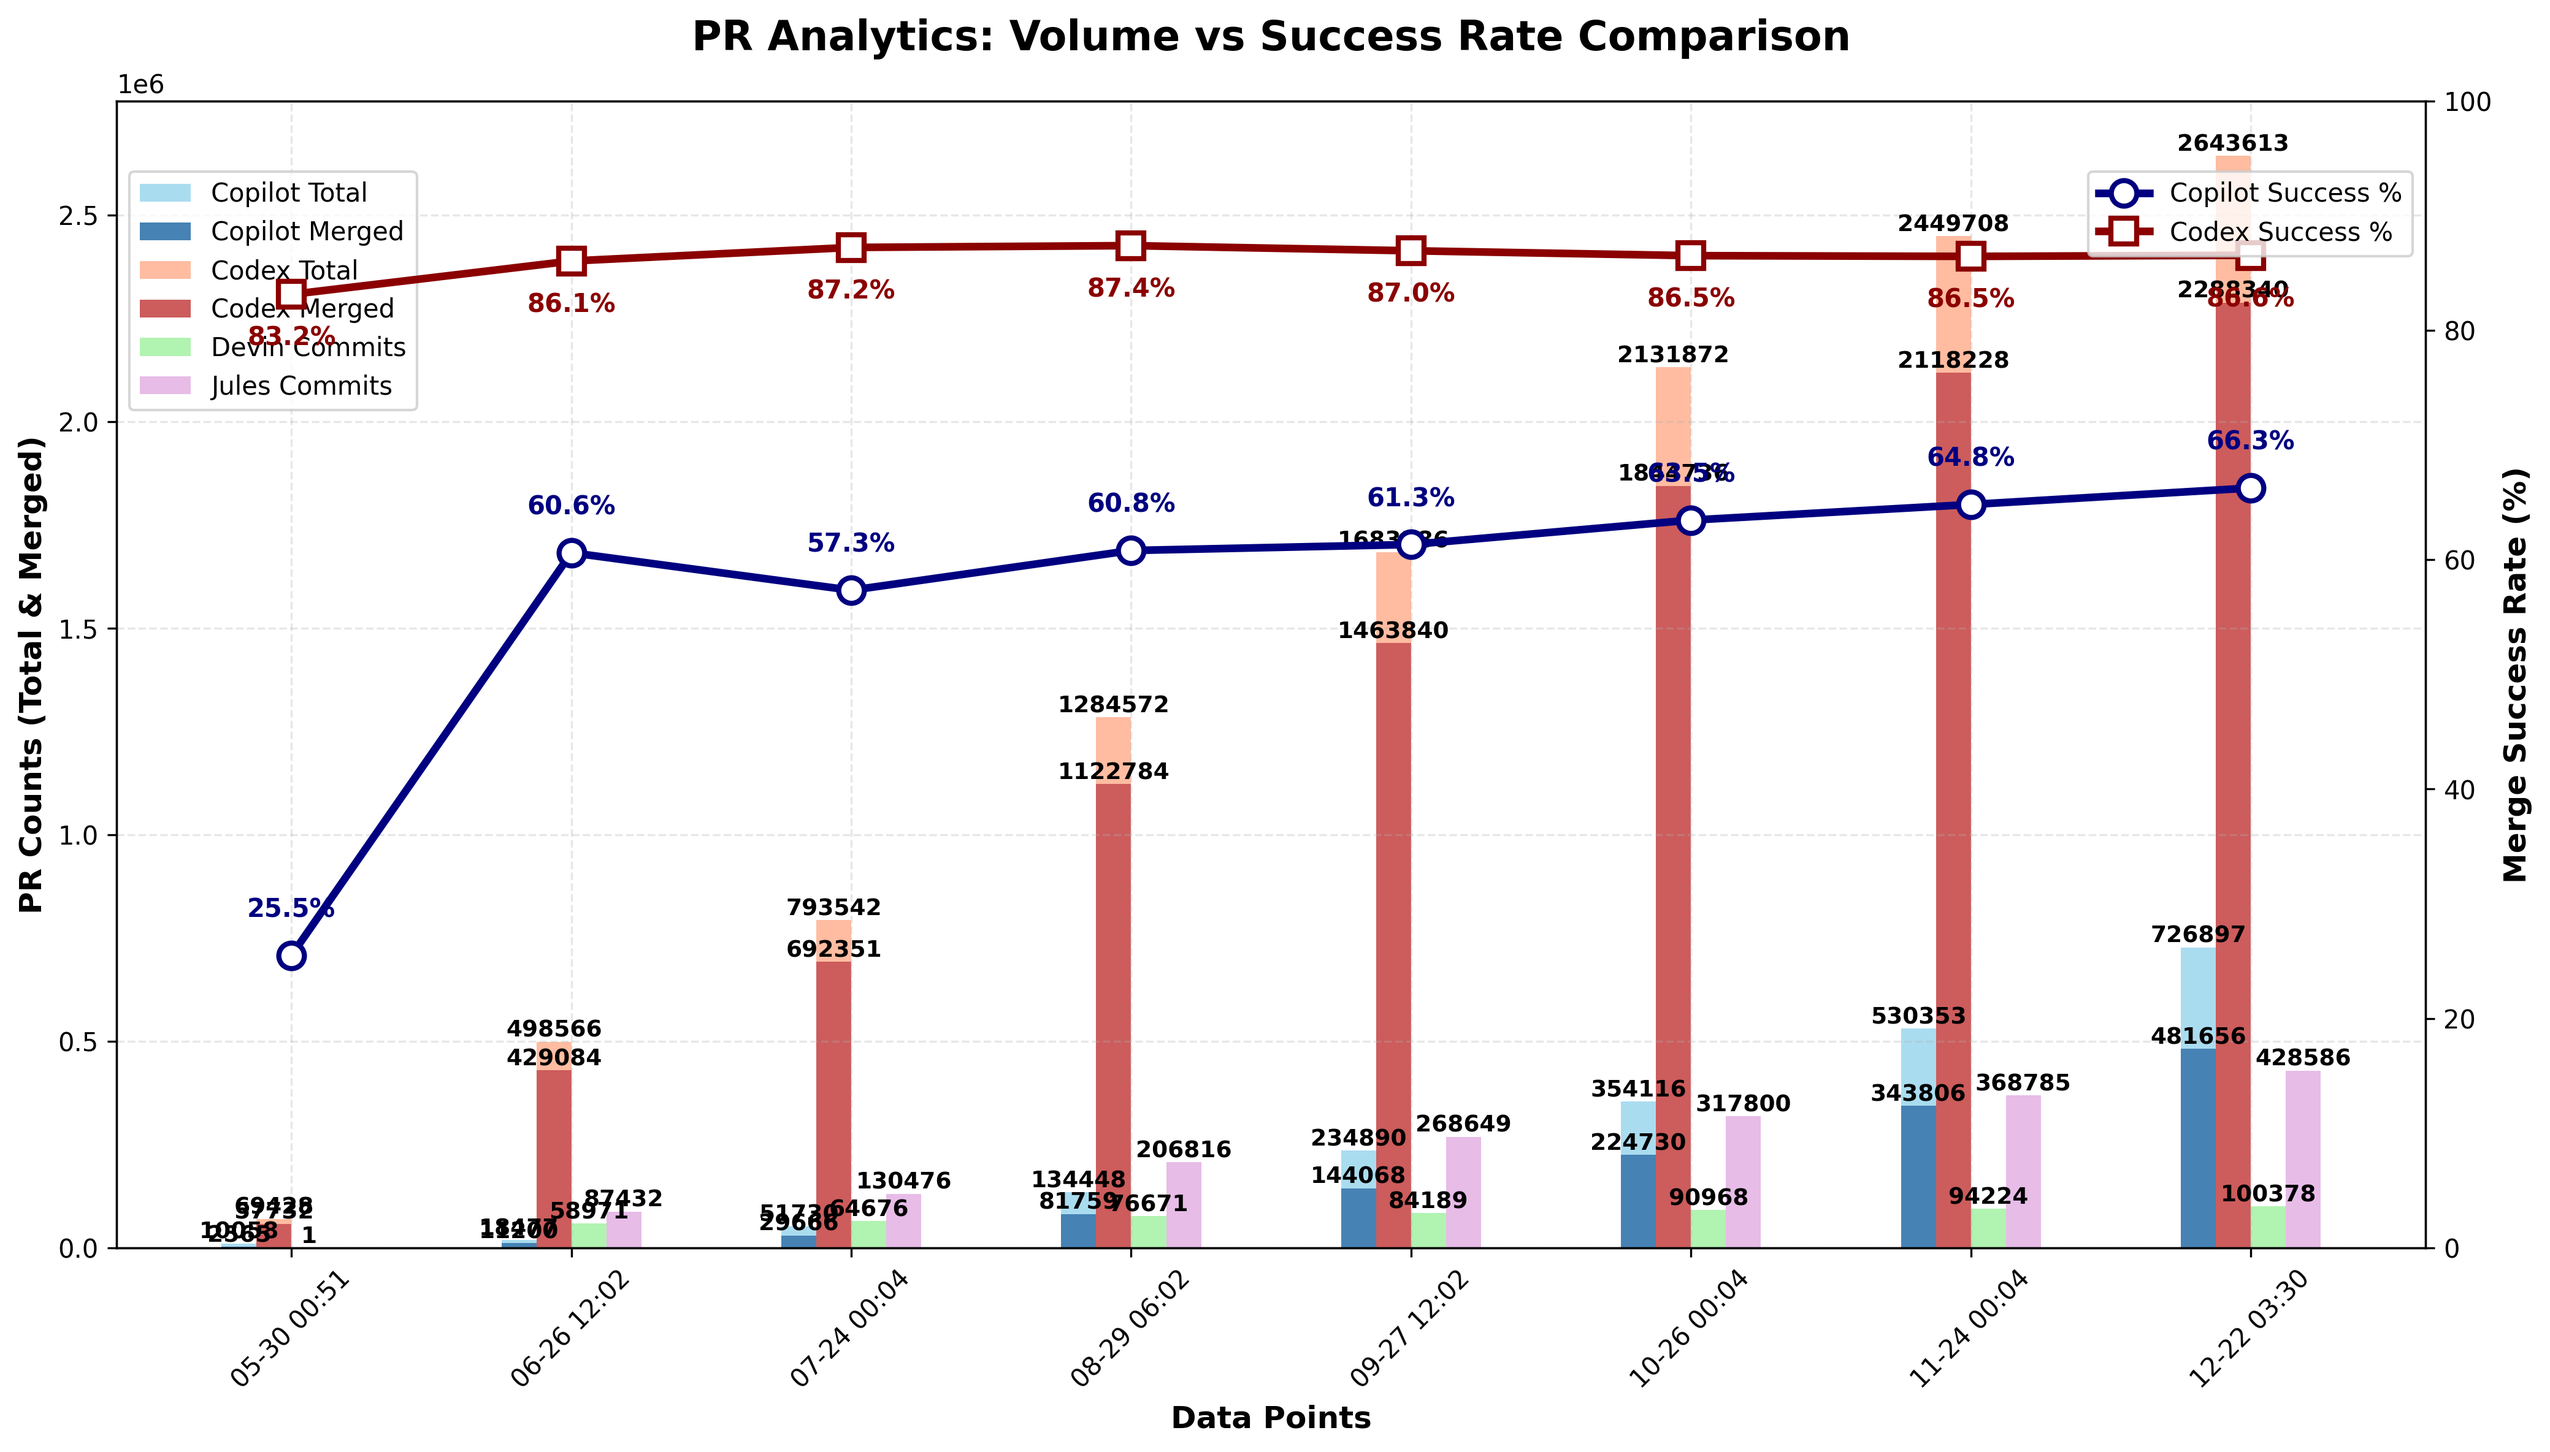
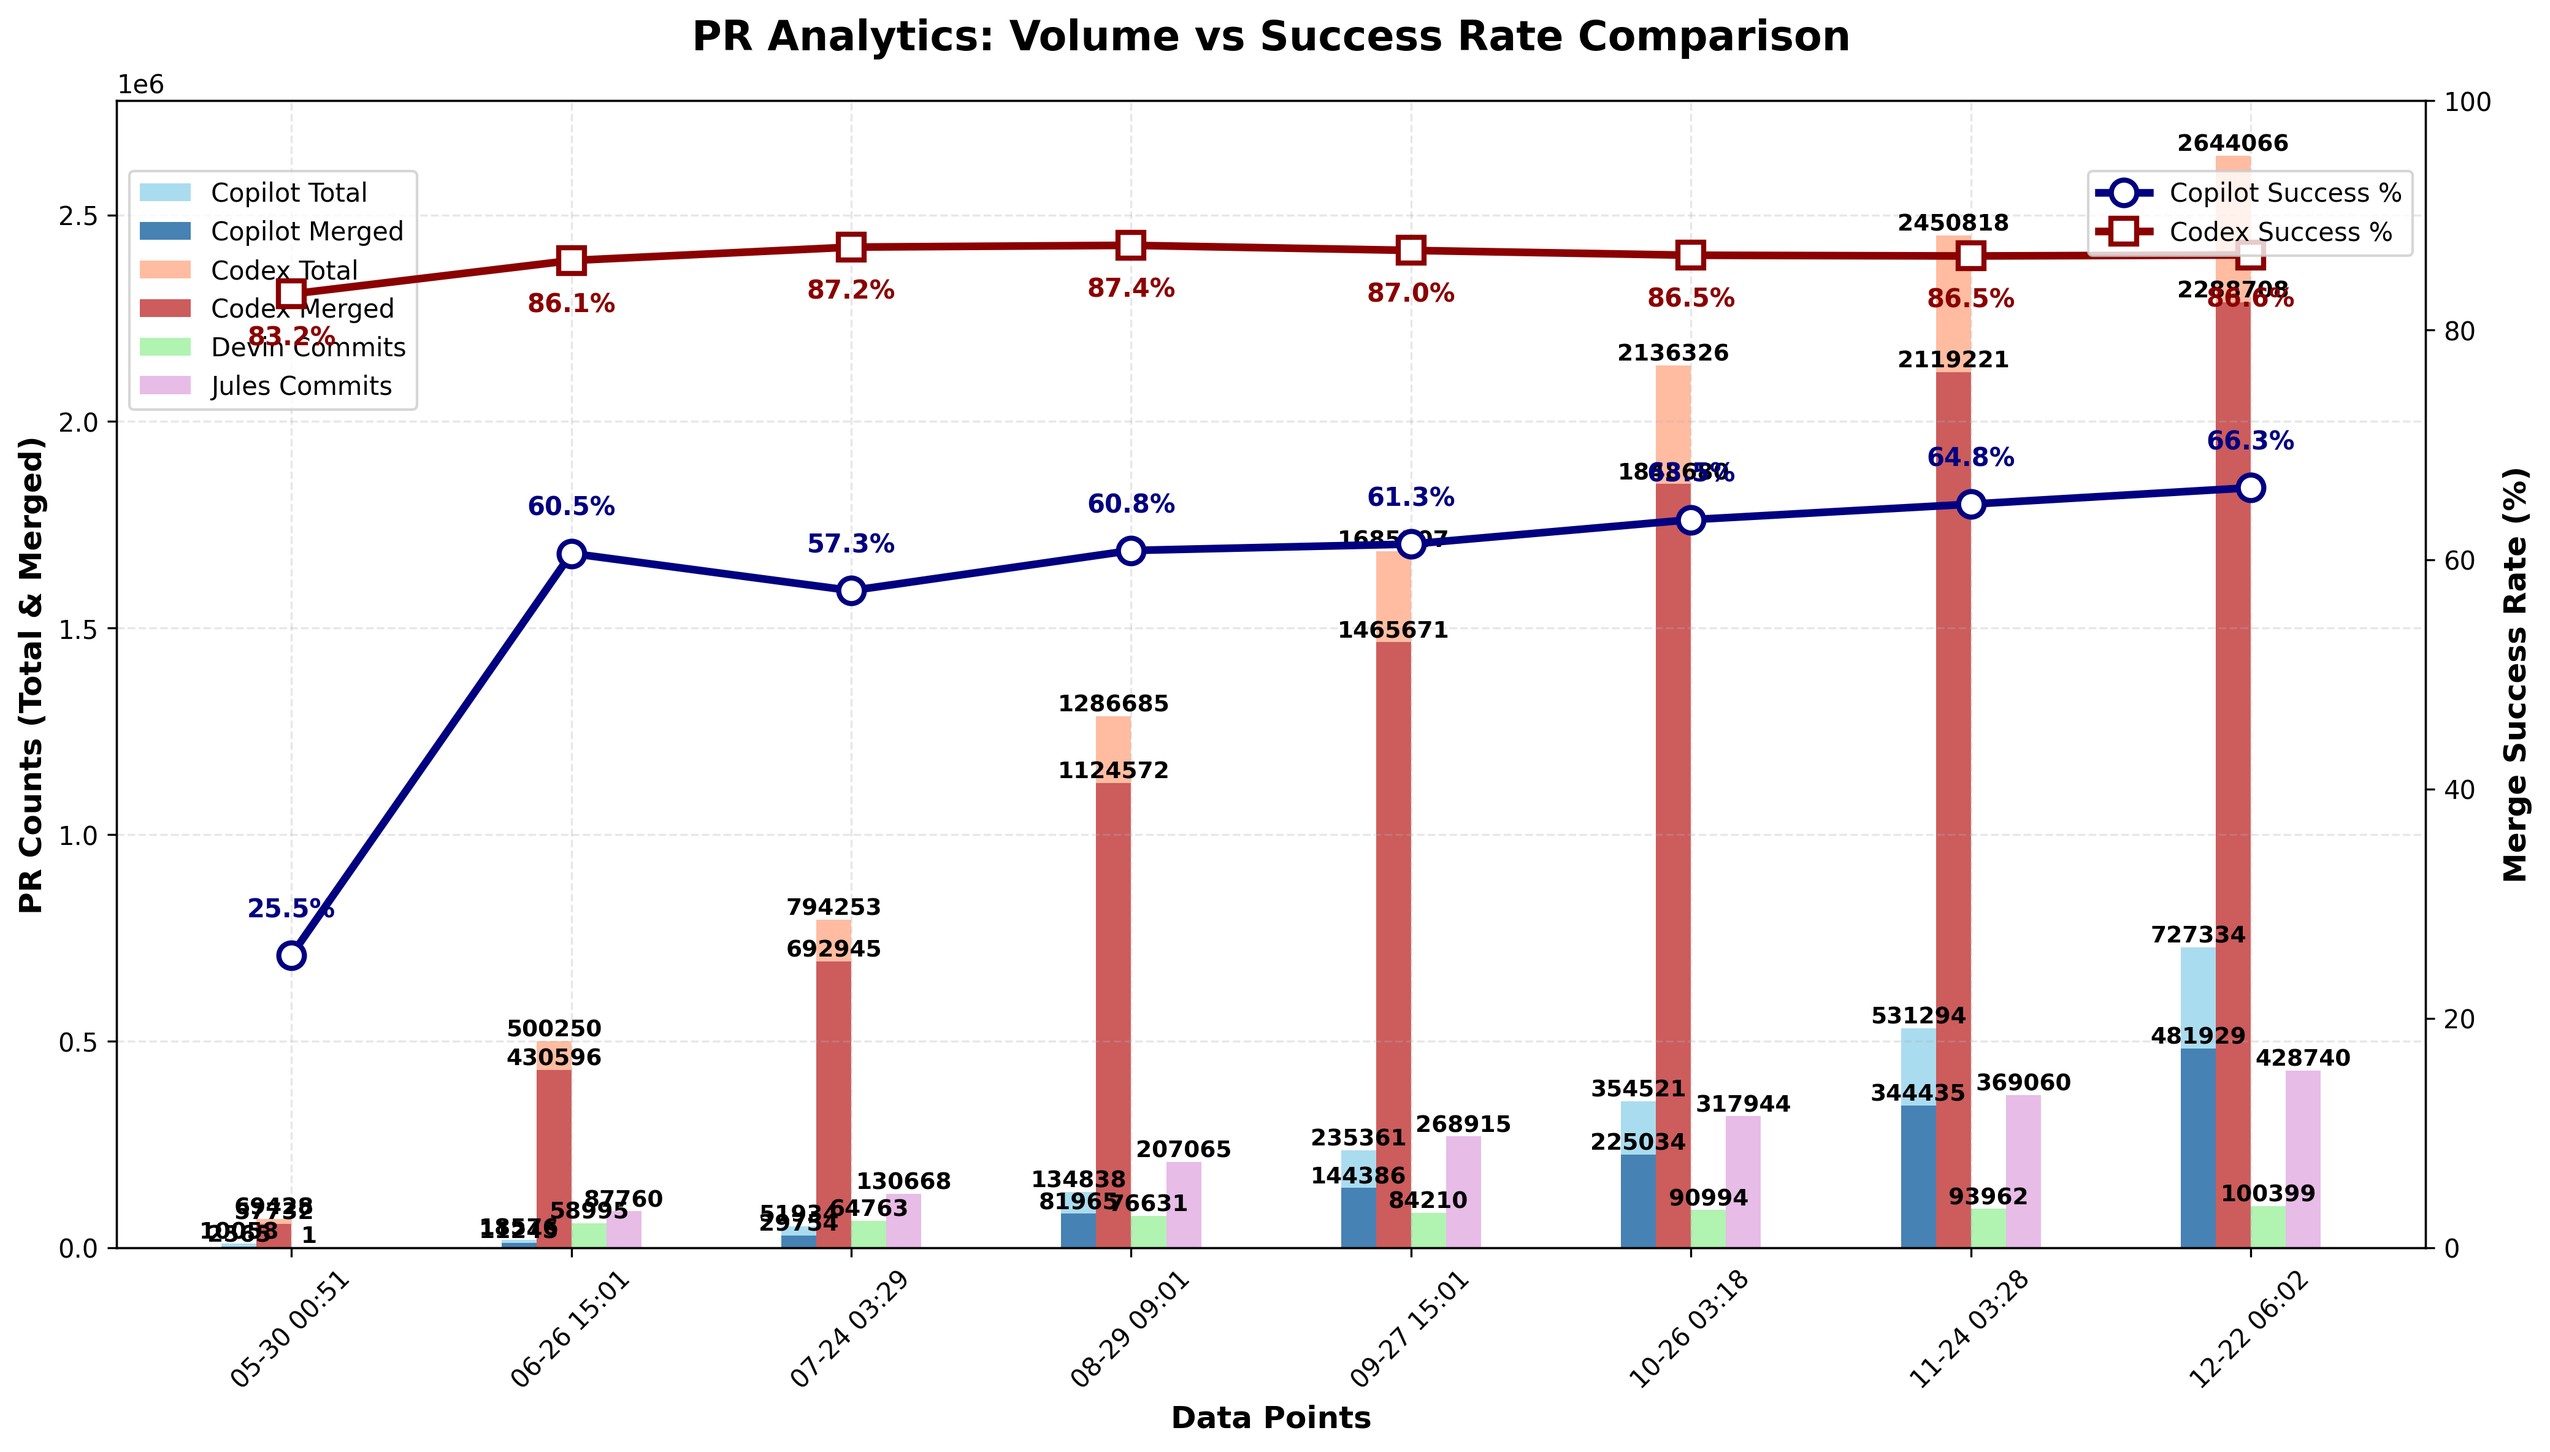
chore: update PR‑approval chart

diff --git a/docs/index.html b/docs/index.html
@@ -1587,6 +1587,7 @@
                         <td>N/A</td>
                         <td>N/A</td>
                         <td>N/A</td>
+                        <td>N/A</td>
                     </tr>
                     <tr>
                         <td>Codex</td>
@@ -3132,27 +3133,28 @@
                         <td>N/A</td>
                         <td>N/A</td>
                         <td>N/A</td>
+                        <td>N/A</td>
                     </tr>
                 <tr>
                         <td>Devin</td>
                         <td>N/A</td>
                         <td>N/A</td>
                         <td>N/A</td>
-                        <td>100,378</td>
+                        <td>100,399</td>
                     </tr>
                     <tr>
                         <td>Jules</td>
                         <td>N/A</td>
                         <td>N/A</td>
                         <td>N/A</td>
-                        <td>428,586</td>
+                        <td>428,740</td>
                     </tr>
                     </tbody>
             </table>
         </section>
 
         <footer>
-            <p>Last updated: <span id="last-updated">December 22, 2025 03:30 UTC</span></p>
+            <p>Last updated: <span id="last-updated">December 22, 2025 06:02 UTC</span></p>
             <p><a href="https://github.com/aavetis/ai-pr-watcher">View on GitHub</a></p>
         </footer>
     </div>

diff --git a/README.md b/README.md
@@ -19,7 +19,7 @@ Explore the GitHub search queries used:
 
 | Service | Total PRs | Merged PRs | Merge Rate | Total Commits |
 | ------- | --------- | ---------- | ---------- | ------------- |
-| Copilot | 726,897 | 481,656 | 66.26% | N/A           |
-| Codex   | 2,643,613 | 2,288,340 | 86.56% | N/A           |
-| Devin   | N/A       | N/A        | N/A        | 100,378 |
-| Jules   | N/A       | N/A        | N/A        | 428,586 |
+| Copilot | 727,334 | 481,929 | 66.26% | N/A           |
+| Codex   | 2,644,066 | 2,288,708 | 86.56% | N/A           |
+| Devin   | N/A       | N/A        | N/A        | 100,399 |
+| Jules   | N/A       | N/A        | N/A        | 428,740 |
